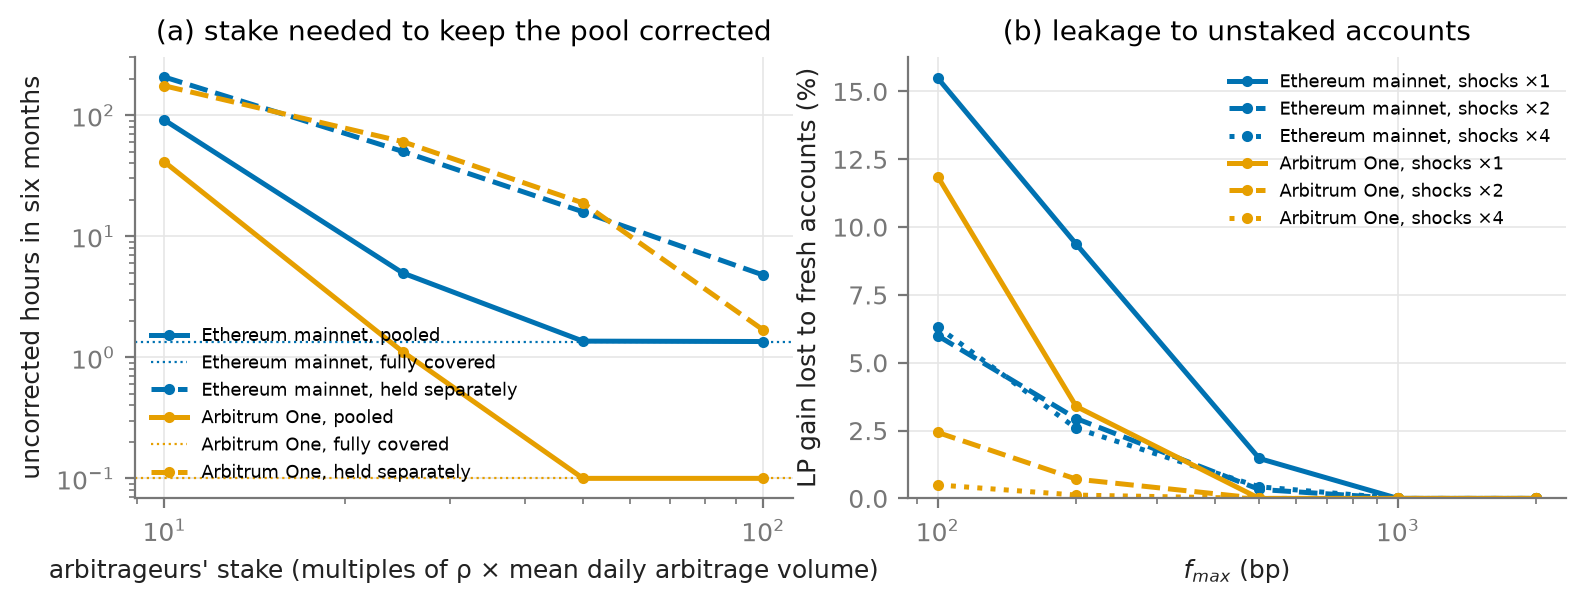
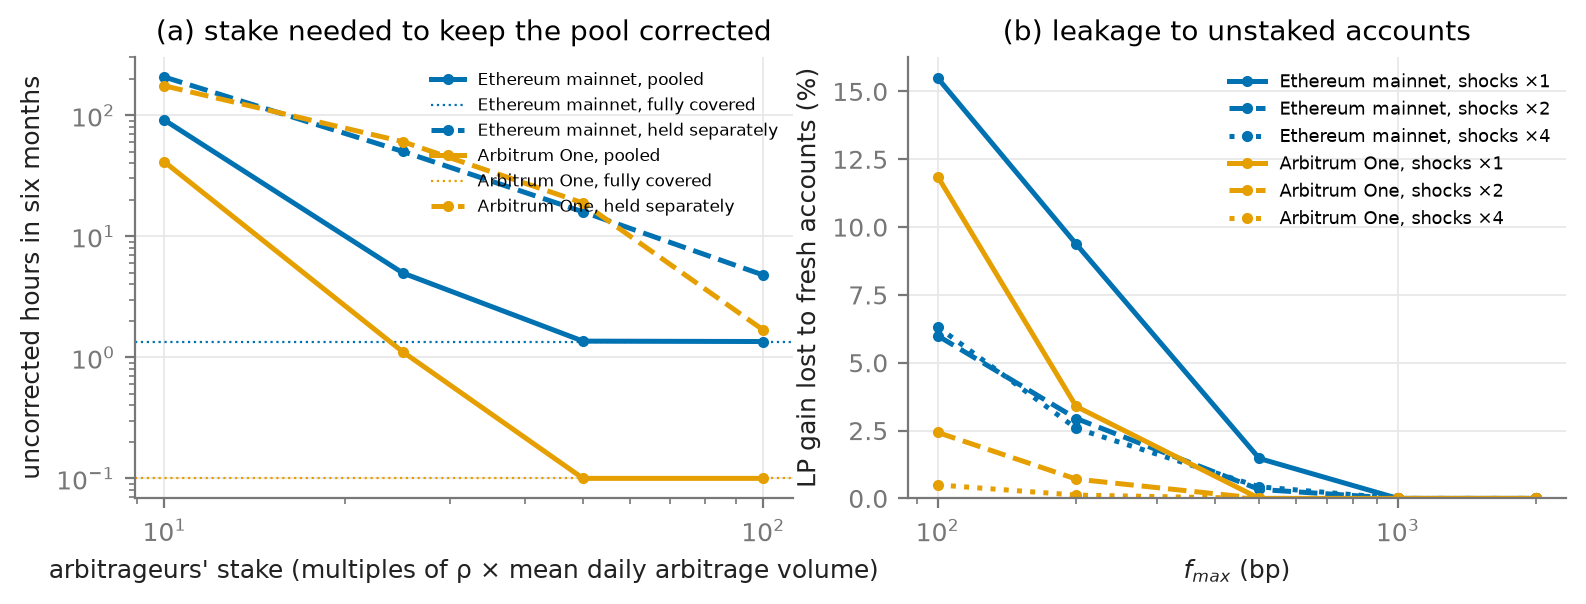
docs: paper correction lane and unstaked-flow results
- Added Interface paper §4.10 optional correction lane: per-unit charge settled at execution against a signed report, always open, self-contained
- Added Interface paper §5.5 fresh accounts against f_max and shock size, arbitrage stake needed, correction lane and rejected alternatives, with Figure 13 and Table 3
- Improved Interface §4.8 launch with appointed arbitrageurs holding REP; abstract, contributions and conclusion updated to the outcome staleness rule and fresh accounts
- Improved Interface §3.4 states the lane's oracle exposure; limitations state the stake and per-block assumptions
- Fixed Bug score-distribution legend still listed sandwiches in the toxic label

diff --git a/pipeline/figures.py b/pipeline/figures.py
@@ -140,7 +140,7 @@ def score_distributions() -> None:
         lab = pd.concat(pd.read_parquet(p, columns=["tx_hash", "log_index", "label"]) for p in sorted((on / "labels" / "eth_usdc_005").glob("*")))
         d = qc.merge(lab, on=["tx_hash", "log_index"])
         bins = np.linspace(-20, 20, 161)
-        for i, (lbl, txt) in enumerate((("benign", "benign (routers)"), ("toxic", "toxic (searchers, sandwiches)"))):
+        for i, (lbl, txt) in enumerate((("benign", "benign (routers)"), ("toxic", "toxic (top-of-block searchers)"))):
             q = d.loc[d.label == lbl, "q_c_h0"].dropna().to_numpy() * 1e4
             ax.hist(q, bins=bins, density=True, histtype="step", color=C[i], lw=1.6, label=txt)
         auc = j((R if not sub else R / "arbitrum") / "study_a" / "metrics.json")["auc_h0"]
@@ -287,7 +287,7 @@ def stake_and_shocks() -> None:
     ax.set_xlabel("arbitrageurs' stake (multiples of ρ × mean daily arbitrage volume)")
     ax.set_ylabel("uncorrected hours in six months")
     ax.set_title("(a) stake needed to keep the pool corrected")
-    ax.legend(fontsize=6.5)
+    ax.legend(fontsize=6, loc="upper right")
     ax = axes[1]
     vols = [("stable", "shocks ×1"), ("vol_x2", "shocks ×2"), ("vol_x4", "shocks ×4")]
     for ci, (name, path) in enumerate(chains):
